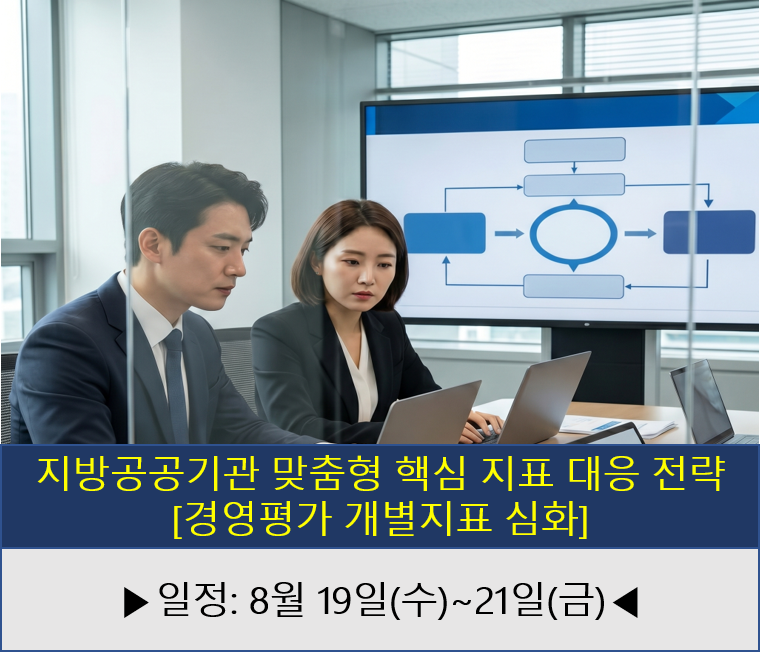
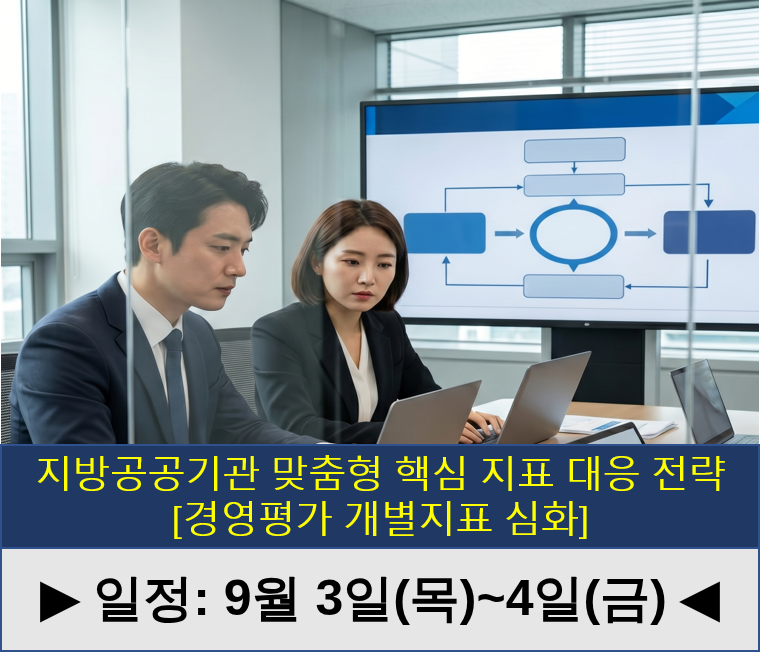
교육 배너 마감 처리 3종 및 일정 문구 변경 2종
- 마감된 교육 3종(AI 활용 7/23, 계량지표 8/6, 지방공공기관 임직원
  역량강화 8/19): 이미지 옅게(흐림+회색조) + '마 감' 빨간 도장
  중앙 표시 + 클릭 시 페이지 표출 차단 (홈·교육 게시판 공통)
- '지방공공기관 맞춤형 핵심 지표 대응 전략' 일정 → 9월 3일(목)~4일(금)
- '지방공기업 임직원 역량 강화 세미나[직무전문역량 심화]' 일정 →
  10월 15일(목) ~ 10월 16일(금)
  (배너 이미지의 일정 띠를 원본 스타일 그대로 재작성)

Claude-Session: https://claude.ai/code/session_01Qs5W71xmYSvwdwEB2PoZHp

Changed region(s): [[0.0303, 0.8896, 0.9684, 0.9816]]

diff --git a/index.html b/index.html
@@ -1560,6 +1560,20 @@
 
 
     /* === [교육과정 배너 전용 스타일] 폭은 .container로 자동 일치 === */
+    /* 마감된 교육 배너: 이미지 옅게 + '마감' 도장 + 클릭 무효 (홈·교육 게시판 공통) */
+    .edu-banner.edu-closed { cursor: default; }
+    .edu-banner.edu-closed .thumb { position: relative; }
+    .edu-banner.edu-closed .thumb img { filter: grayscale(45%) opacity(.35); }
+    .edu-banner.edu-closed .thumb::after {
+      content: '마 감';
+      position: absolute; left: 50%; top: 50%;
+      transform: translate(-50%, -50%) rotate(-10deg);
+      background: rgba(224, 49, 49, .92); color: #fff;
+      font-size: 2.4rem; font-weight: 900; letter-spacing: .18em;
+      padding: 14px 34px; border-radius: 14px; border: 3px solid #fff;
+      box-shadow: 0 6px 20px rgba(0, 0, 0, .3); white-space: nowrap;
+    }
+
     #edu-courses .edu-banner-list {
       display: grid;
       grid-template-columns: repeat(3, minmax(0, 1fr));
@@ -5051,7 +5065,7 @@
             </a>
 
             <!-- 배너 1 -->
-            <a class="edu-banner" href="https://github.com/buglerrr/puconet/blob/main/images/education/1.png?raw=true" target="_blank" rel="noopener">
+            <a class="edu-banner edu-closed" title="마감된 교육입니다">
               <div class="thumb">
                 <img loading="lazy" decoding="async" src="https://github.com/buglerrr/puconet/blob/main/images/baner/banner1.png?raw=true"
                   alt="교육과정 1 썸네일">
@@ -5059,7 +5073,7 @@
             </a>
 
             <!-- 배너 2 -->
-            <a class="edu-banner" href="https://github.com/buglerrr/puconet/blob/main/images/education/2.png?raw=true" target="_blank" rel="noopener">
+            <a class="edu-banner edu-closed" title="마감된 교육입니다">
               <div class="thumb">
                 <img loading="lazy" decoding="async" src="https://github.com/buglerrr/puconet/blob/main/images/baner/banner2.png?raw=true"
                   alt="교육과정 2 썸네일">
@@ -5067,7 +5081,7 @@
             </a>
 
             <!-- 배너 3 -->
-            <a class="edu-banner" href="https://github.com/buglerrr/puconet/blob/main/images/education/3.png?raw=true" target="_blank" rel="noopener">
+            <a class="edu-banner edu-closed" title="마감된 교육입니다">
               <div class="thumb">
                 <img loading="lazy" decoding="async" src="https://github.com/buglerrr/puconet/blob/main/images/baner/banner3.png?raw=true"
                   alt="교육과정 3 썸네일">
@@ -12531,7 +12545,9 @@ function initCarousel(carouselContainer) {
   document.querySelectorAll('#edu-courses .edu-banner').forEach(function (link) {
     link.addEventListener('click', function (e) {
       e.preventDefault();
+      if (this.classList.contains('edu-closed')) return; // 마감된 교육: 페이지 표출 없음
       var url = this.getAttribute('href');
+      if (!url) return;
       var w = 800, h = 600;
       var left = (screen.width - w) / 2;
       var top = (screen.height - h) / 2;
